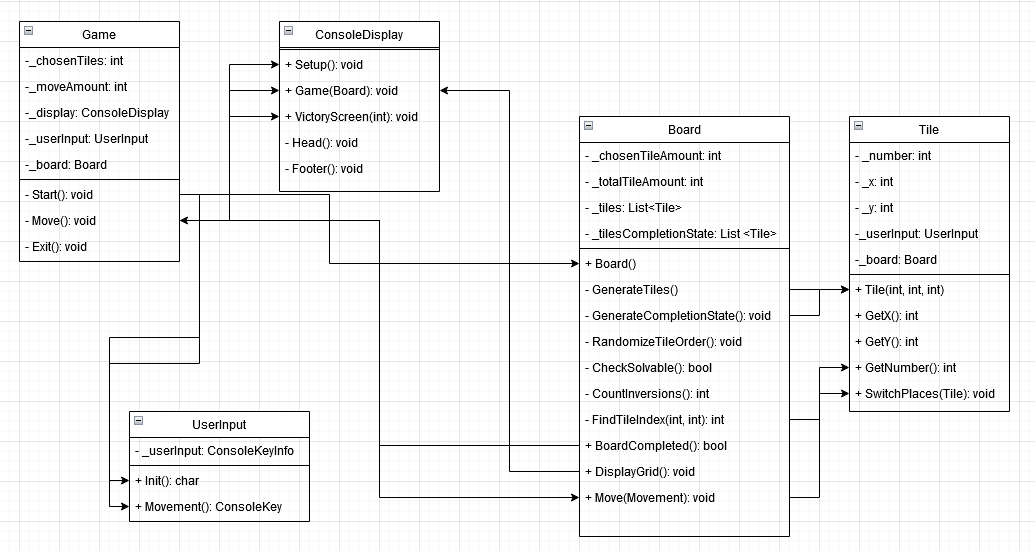
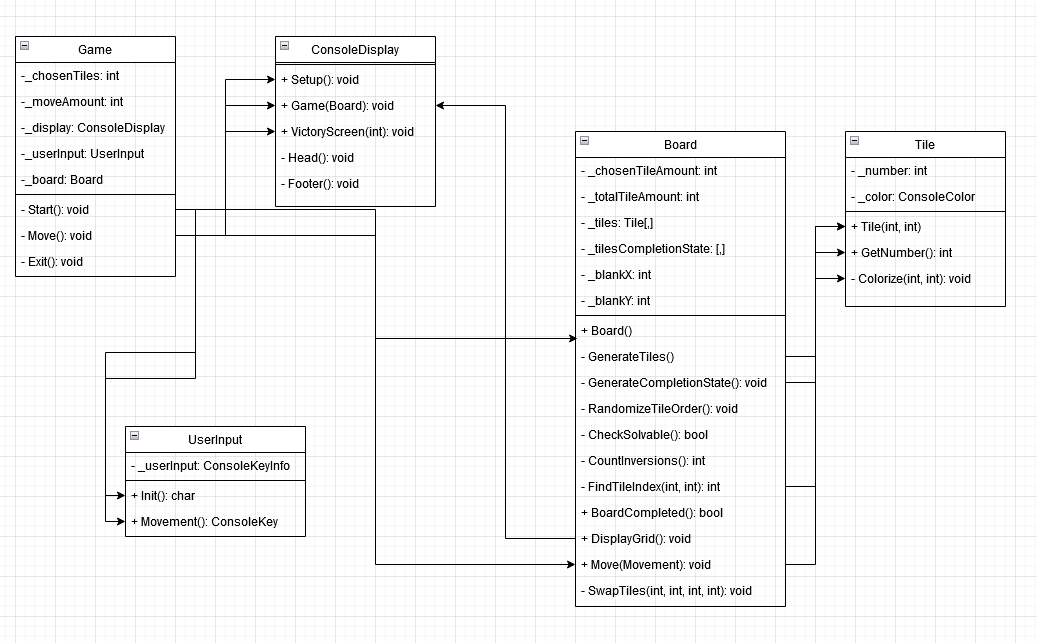
Update Board.cs and class diagram
Remove old comments and update the class diagram for new methods.

diff --git a/assignment1_n-puzzle - Remade/Board.cs b/assignment1_n-puzzle - Remade/Board.cs
@@ -4,8 +4,6 @@ public class Board
 {
     private int _chosenTileAmount;
     private int _totalTileAmount;
-    //private List<Tile> _tiles = new List<Tile>();
-    //private List<Tile> _tilesCompletionState = new List<Tile>();
     private Tile[,] _tiles;
     private Tile[,] _tilesCompletionState;
     private int _blankX;
@@ -59,24 +57,6 @@ public class Board
     private void GenerateCompletionState()
     {
         _tilesCompletionState = (Tile[,]) _tiles.Clone();
-        
-        // Move the blank tile to the last spot
-        /*
-        for (int x = 1, y = 0, i = 1; i < _totalTileAmount - 1 ; i++, x++)
-        {
-            if (x == _chosenTileAmount)
-            {
-                y++;
-                x = 0;
-            }
-            
-            // Switch places with the two tiles
-            (_tilesCompletionState[_blankX, _blankY], _tilesCompletionState[x, y]) = (_tilesCompletionState[x, y],
-                _tilesCompletionState[_blankX, _blankY]);
-
-            _blankX = x;
-            _blankY = y;
-        }*/
     }
     
     // Each tile will switch places with another randomly selected tile
